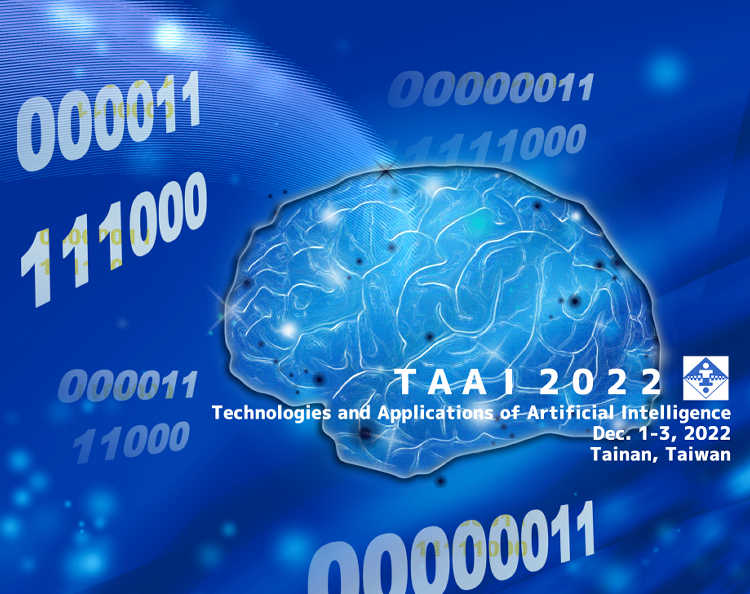
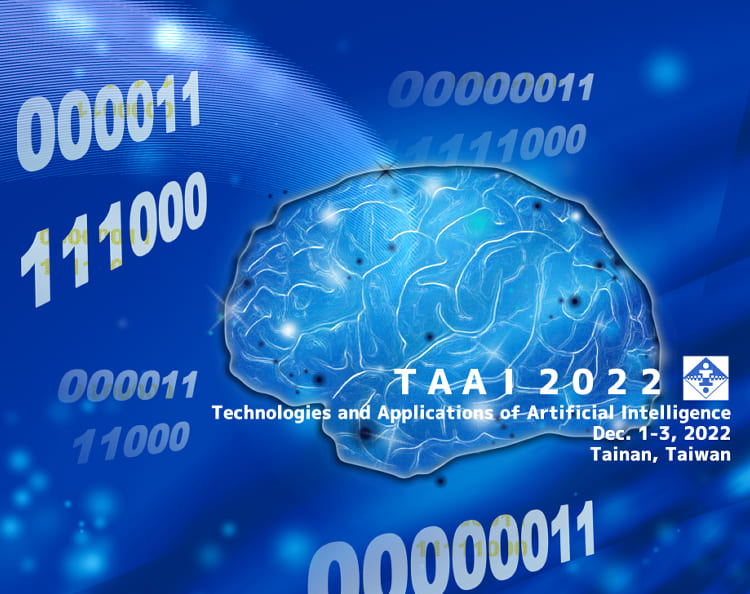
update compressed image

Changed region(s): [[0.92, 0.6364, 0.9507, 0.6667]]

diff --git a/organization.html b/organization.html
@@ -24,7 +24,8 @@
                      <p>
                         Huey-Jen Jenny Su 蘇慧貞校長, National Cheng Kung University
                      </p>
-                  </div>                  
+                     <br>
+                  </div>
                   <div>
                      <div style="font-size: 1em;font-weight: bold">General Chairs</div>
                      <p>
@@ -33,37 +34,45 @@
                      <p>
                         Hung-Yu Kao 高宏宇理事長, National Cheng Kung University
                      </p>
+                     <br>
                   </div>
                   <div>
                      <div style="font-size: 1em;font-weight: bold">Program Chairs (International Track)</div>
                      <p>Jen-Wei Huang 黃仁暐教授,  National Cheng-Kung University</p>
                      <p>Chih-Chieh Hung 洪智傑教授, National Chung-Hsing University</p>
+                     <br>
                   </div>
                   <div>
                      <div style="font-size: 1em;font-weight: bold">Program Chairs (Domestic Track)</div>
                      <p>Hsueh-Chan Lu 呂學展教授, National Cheng-Kung University</p>
                      <p>Chuang-Chieh Lin 林莊傑教授, Tamkang University</p>                                          
+                     <br>
                   </div>
                   <div>
                      <div style="font-size: 1em;font-weight: bold">Keynote Program Chair</div>
                      <p> Wen-Chih Peng 彭文志教授, National Yang Ming Chiao Tung University</p>
+                     <br>
                   </div>
                   <div>
                      <div style="font-size: 1em;font-weight: bold">Publication Chair</div>
                      <p> Fan-Hsun Tseng 曾繁勛教授, National Cheng-Kung University</p>
+                     <br>
                   </div>
                   <div>
                      <div style="font-size: 1em;font-weight: bold">Sponsorship Chair</div>                     
                      <p>Kun-Ta Chuang 莊坤達教授, National Cheng Kung University</p>
-                     <p></p>Mong-Fong Horng 洪盟峰教授, National Kaohsiung University of Science and Technology</p>
+                     <p>Mong-Fong Horng 洪盟峰教授, National Kaohsiung University of Science and Technology</p>
+                     <br>
                   </div>
                   <div>
                      <div style="font-size: 1em;font-weight: bold">Special Issue Chair</div>                     
                      <p>Lieu-Hen Chen 陳履恒教授, National Chi Nan University</p>                     
+                     <br>
                   </div>
                   <div>
                      <div style="font-size: 1em;font-weight: bold">Game Tournament Chair</div>
                      <p>Shi-Jim Yen 顏士淨教授,  National Dong Hwa University</p>                     
+                     <br>
                   </div>
                </section>
             </div>          
